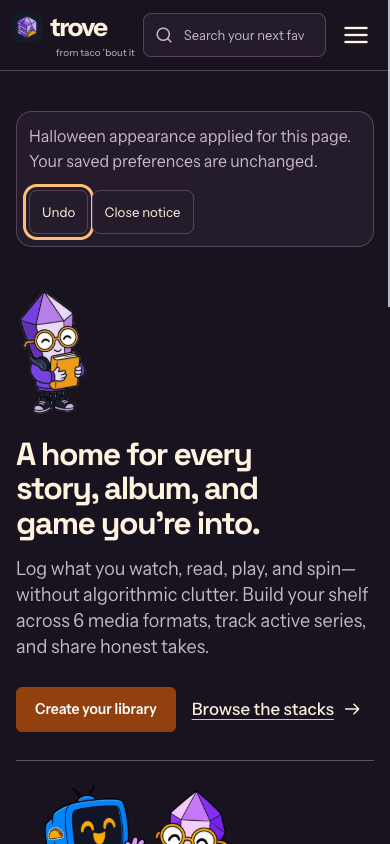
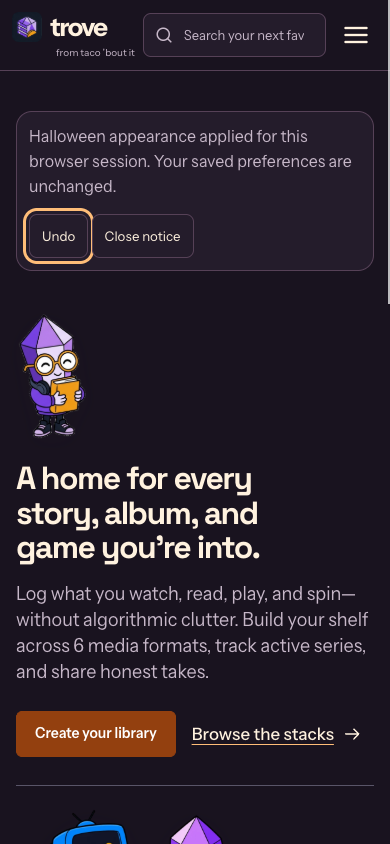
Keep explicit Halloween choice through navigation with exact session Undo

diff --git a/app/javascript/controllers/halloween_controller.js b/app/javascript/controllers/halloween_controller.js
@@ -3,26 +3,63 @@ import { Controller } from "@hotwired/stimulus"
 const END = Date.UTC(2026, 10, 1)
 const START = Date.UTC(2026, 9, 18)
 const KEY = "trove-halloween-2026"
+const ACTIVE = `${KEY}-active`
 export default class extends Controller {
   static targets = ["invitation", "notice", "message"]
   connect() {
-    if (Date.now() < START || Date.now() >= END) return
-    try { if (localStorage.getItem(KEY)) return } catch { /* Optional storage. */ }
-    this.element.hidden = false
+    if (Date.now() < START || Date.now() >= END) { this.clearSession(); return }
+    const active = this.readSession()
+    if (active && active.viewer === this.viewer && active.preferences === this.preferences) {
+      this.previous = active.previous
+      this.closed = active.closed
+      this.paint()
+      this.showNotice(false)
+    } else {
+      this.clearSession()
+      this.invitationTarget.hidden = false
+      this.noticeTarget.hidden = true
+      try { if (localStorage.getItem(KEY)) return } catch { /* Optional storage. */ }
+      this.element.hidden = false
+    }
     // One deadline timer, never polling. Recheck the date on every action as well.
     this.expiry = setTimeout(() => this.expire(), Math.min(END - Date.now(), 2147483647))
   }
+  get viewer() { return document.body.dataset.viewerId || "guest" }
+  get preferences() { return document.body.dataset.uiPreferences || "" }
+  readSession() {
+    try {
+      const state = JSON.parse(sessionStorage.getItem(ACTIVE))
+      if (!state?.previous || ![null, "os", "light", "dark"].includes(state.previous.theme) ||
+          ![null, "violet", "ink", "moss", "halloween"].includes(state.previous.accent)) return null
+      return state
+    } catch { return null }
+  }
+  saveSession() {
+    try { sessionStorage.setItem(ACTIVE, JSON.stringify({ previous: this.previous, closed: this.closed, viewer: this.viewer, preferences: this.preferences })) } catch { /* Page-only without storage. */ }
+  }
+  clearSession() { try { sessionStorage.removeItem(ACTIVE) } catch { /* Optional storage. */ } }
   disconnect() { clearTimeout(this.expiry); this.reset() }
-  apply() {
-    if (Date.now() >= END) return this.expire()
-    const root = document.documentElement
-    this.previous = { theme: root.getAttribute("data-theme"), accent: root.getAttribute("data-accent") }
-    root.dataset.theme = "dark"
-    root.dataset.accent = "halloween"
+  paint() {
+    document.documentElement.dataset.theme = "dark"
+    document.documentElement.dataset.accent = "halloween"
+  }
+  showNotice(activated) {
     this.invitationTarget.hidden = true
     this.noticeTarget.hidden = false
-    this.messageTarget.textContent = "Halloween appearance applied for this page. Your saved preferences are unchanged."
-    this.noticeTarget.querySelector("button").focus()
+    this.element.hidden = Boolean(this.closed)
+    this.messageTarget.textContent = activated
+      ? "Halloween appearance applied for this browser session. Your saved preferences are unchanged."
+      : "Halloween appearance is on for this browser session. Your saved preferences are unchanged."
+    if (activated) this.noticeTarget.querySelector("button").focus()
+  }
+  apply() {
+    if (Date.now() < START || Date.now() >= END) return this.expire()
+    const root = document.documentElement
+    this.previous = { theme: root.getAttribute("data-theme"), accent: root.getAttribute("data-accent") }
+    this.closed = false
+    this.saveSession()
+    this.paint()
+    this.showNotice(true)
   }
   reset() {
     if (this.previous) {
@@ -34,11 +71,12 @@ export default class extends Controller {
     }
     this.element.hidden = true
   }
-  undo() { this.reset(); this.dismiss() }
+  undo() { this.reset(); this.clearSession(); this.dismiss() }
   dismiss() {
+    if (this.previous) { this.closed = true; this.saveSession() }
     try { localStorage.setItem(KEY, "dismissed") } catch { /* Still dismiss this page. */ }
     this.element.hidden = true
     document.querySelector("main")?.focus({ preventScroll: true })
   }
-  expire() { this.reset(); clearTimeout(this.expiry) }
+  expire() { this.reset(); this.clearSession(); clearTimeout(this.expiry) }
 }

diff --git a/spec/system/halloween_system_spec.rb b/spec/system/halloween_system_spec.rb
@@ -21,6 +21,13 @@ RSpec.describe 'Halloween invitation', type: :system do
     expect(page).to have_css('html[data-theme="dark"][data-accent="halloween"]')
     expect(page).to have_css('[role="alert"]', text: 'Halloween appearance applied')
     expect(page).to have_css('button:focus', text: 'Undo')
+    visit movies_path
+    expect(page).to have_css('html[data-theme="dark"][data-accent="halloween"]')
+    click_button 'Undo'
+    expect(page).to have_css('html[data-theme="os"][data-accent="violet"]')
+    page.execute_script("localStorage.removeItem('trove-halloween-2026')")
+    visit root_path
+    click_button 'Try the Halloween theme'
     capture_ui_screenshot('halloween-desktop')
     resize_browser_viewport(390, 844)
     expect(page.evaluate_script('document.documentElement.scrollWidth <= window.innerWidth')).to be(true)

diff --git a/docs/design/halloween-2026.md b/docs/design/halloween-2026.md
@@ -4,7 +4,7 @@ Account accent, profile accent/header, and shelf palettes remain independent opt
 
 The invitation campaign is **[2026-10-18 00:00:00 UTC, 2026-11-01 00:00:00 UTC)**. Both server rendering and client activation enforce this single fixed interval; no future-year recurrence. A single deadline timer removes an invitation from an already open page. There is no polling or network request on activation.
 
-The invitation previews dark + Halloween on the current page only. Undo restores the exact previous `data-theme` and `data-accent` attributes (including missing attributes); it never changes saved account/profile/shelf preferences. Navigation and Turbo snapshot caching clear the preview. Signed-in readers can save Halloween explicitly in Appearance. Dismissal is stored under `trove-halloween-2026` on this browser; blocked storage falls back to page-only dismissal. No tracking identifiers or account data are stored.
+The invitation previews dark + Halloween for the current browser session. Undo restores the exact previous `data-theme` and `data-accent` attributes (including missing attributes); it never changes saved account/profile/shelf preferences. The session override survives navigation; Turbo snapshots retain the original appearance and reapply only after checking the explicit session choice. A viewer or saved-preference change clears the override. Blocked session storage falls back to the current page. Signed-in readers can save Halloween explicitly in Appearance. Dismissal is stored under `trove-halloween-2026` on this browser; blocked storage falls back to page-only dismissal. Session storage holds only the previous theme attributes, viewer ID, and appearance preference signature to prevent carrying an override into another account; no analytics or network calls use this state.
 
 The invitation reserves normal document flow under navigation, so its restrained floating decoration never covers controls. Native buttons support touch and keyboard, with a 44px minimum target. An alert announces activation, focus moves to Undo, and no short timeout removes that action. OS reduced motion and the account's reduced effects preference disable decoration movement. Movement otherwise stops after three cycles.
 
@@ -17,7 +17,7 @@ Asset prompt: “Preserve the violet faceted crystal head, golden round glasses,
 ## Verification evidence
 
 - Nonbrowser suite: 900 examples, zero failures, nine existing pending examples.
-- JavaScript suite: 16 tests passed, including the fixed campaign boundary, activation without saved preference mutation, exact Undo restoration, dismissal, and deadline reset.
+- JavaScript suite: 19 tests passed, including the fixed campaign boundary, activation without saved preference mutation, exact Undo restoration, dismissal, and deadline reset.
 - Existing appearance/shelf browser regressions: two examples passed. Halloween keyboard/browser regression: one example passed on an isolated temporary database.
 - Responsive real-page checks: 1440px desktop and 390px mobile, keyboard activation/Undo focus, alert, reduced motion, exact restoration, persistent dismissal, public profile and shelf overflow.
 - RuboCop: zero offenses; assets build succeeded; Brakeman: zero security warnings; current bundler-audit: no vulnerabilities; public email guard passed.
